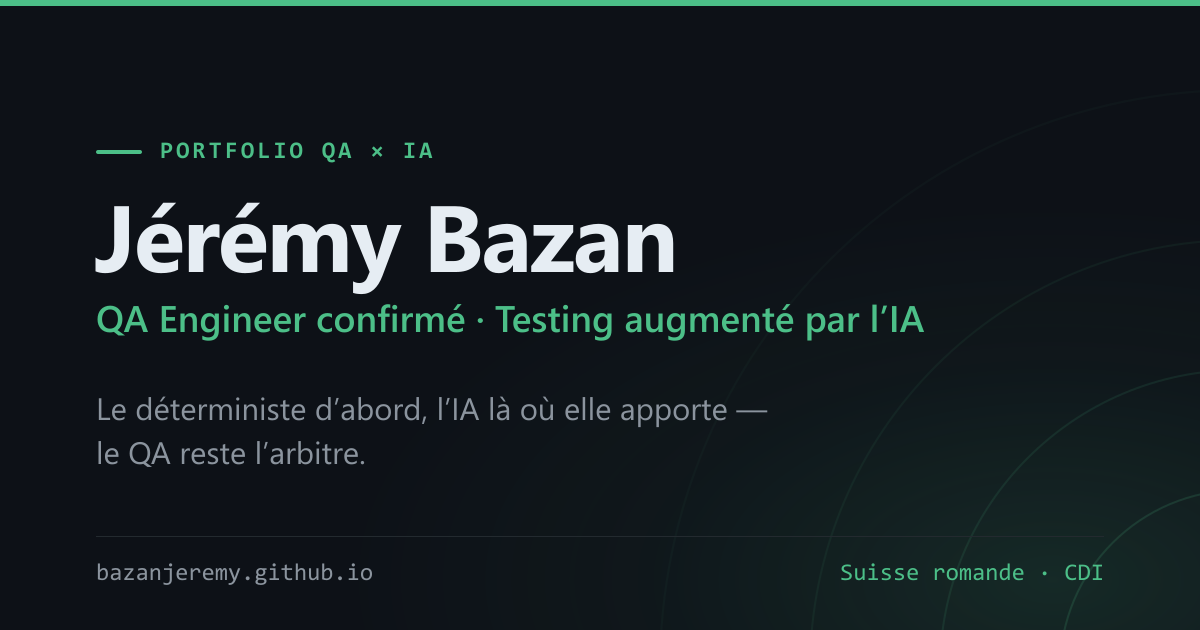
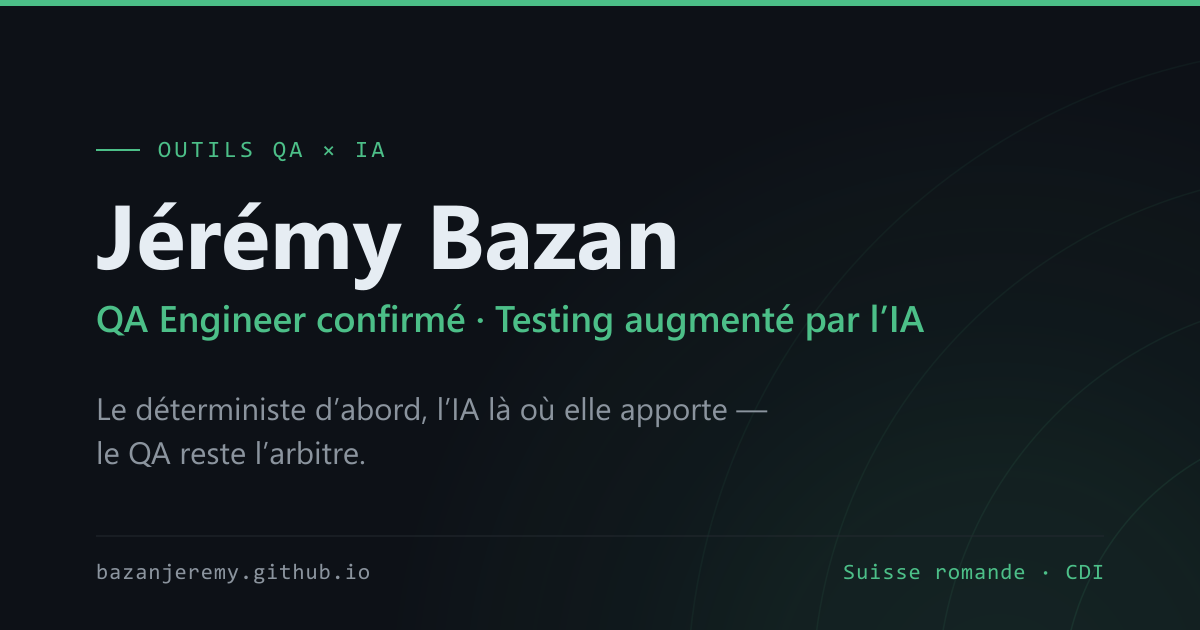
feat(assets): carte de partage par langue, sans le mot banni (#35)
L'image Open Graph affichait encore « PORTFOLIO QA × IA », interdit dans
tout contenu public depuis le 30.07. Elle datait d'avant la règle, et T13
n'avait purgé que la copy du site.

- Kicker : « OUTILS QA × IA » en français, comme l'eyebrow du héros
  depuis T13 ; « QA × AI TOOLS » en anglais.
- Carte anglaise dédiée (og-image-en.png) : le texte est incrusté, donc
  les pages /en/ affichaient jusqu'ici une image en français.
  BaseLayout choisit la carte selon la langue.
- scripts/og-image.mjs : le rendu est désormais versionné, celui de #7
  ne l'avait pas été. Géométrie du texte calibrée sur l'image d'origine
  (largeurs et positions à 2 px près) ; halo et arcs reconstruits.

diff --git a/README.md b/README.md
@@ -30,7 +30,8 @@ src/
 │   ├── en/blog/index.astro   # EN article list (/en/blog)
 │   └── en/blog/[...slug].astro
 └── styles/global.css   # Tailwind import + @theme tokens
-public/             # favicon.svg, robots.txt, og-image.png, fonts/  (see Assets)
+public/             # favicon.svg, robots.txt, og-image*.png, fonts/  (see Assets)
+scripts/            # og-image.mjs — regenerates the social cards (run by hand)
 .github/workflows/  # deploy.yml — GitHub Pages via withastro/action
 ```
 
@@ -90,9 +91,13 @@ settings, set **Settings → Pages → Source = GitHub Actions**.
 
 All assets are self-hosted under `public/` — zero external requests at runtime.
 
-- **`public/og-image.png`** (1200×630) — Open Graph / Twitter card, referenced by
-  `BaseLayout.astro` at `/og-image.png`. It is the social-share preview only; it is
-  **not** rendered on the page.
+- **`public/og-image.png`** and **`public/og-image-en.png`** (1200×630) — Open Graph /
+  Twitter cards, one per language, since the text is baked into the image.
+  `BaseLayout.astro` picks the EN card for `lang === 'en'`. They are the social-share
+  preview only; they are **not** rendered on the page.
+  Regenerate both with `node scripts/og-image.mjs` after editing that script — it holds
+  the copy and the layout. It renders through `sharp` (present via Astro, not a declared
+  dependency) using system fonts, and is run by hand: the build never calls it.
 - **`public/favicon.svg`** — site icon.
 - **`public/fonts/`** — Inter + JetBrains Mono variable fonts (latin subset, ~88 KB),
   preloaded in `BaseLayout.astro`.
